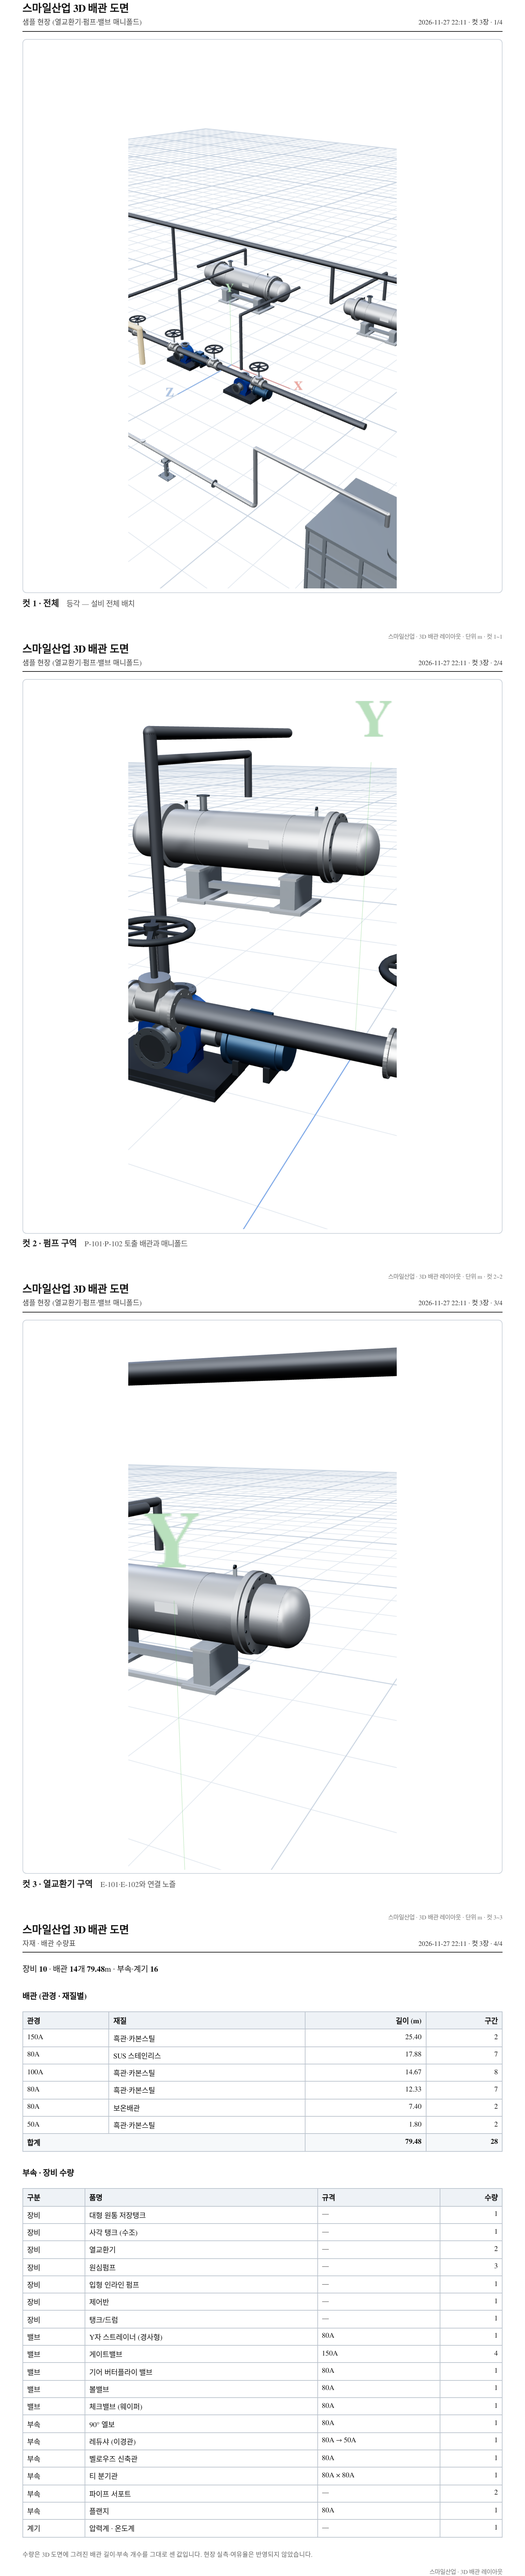
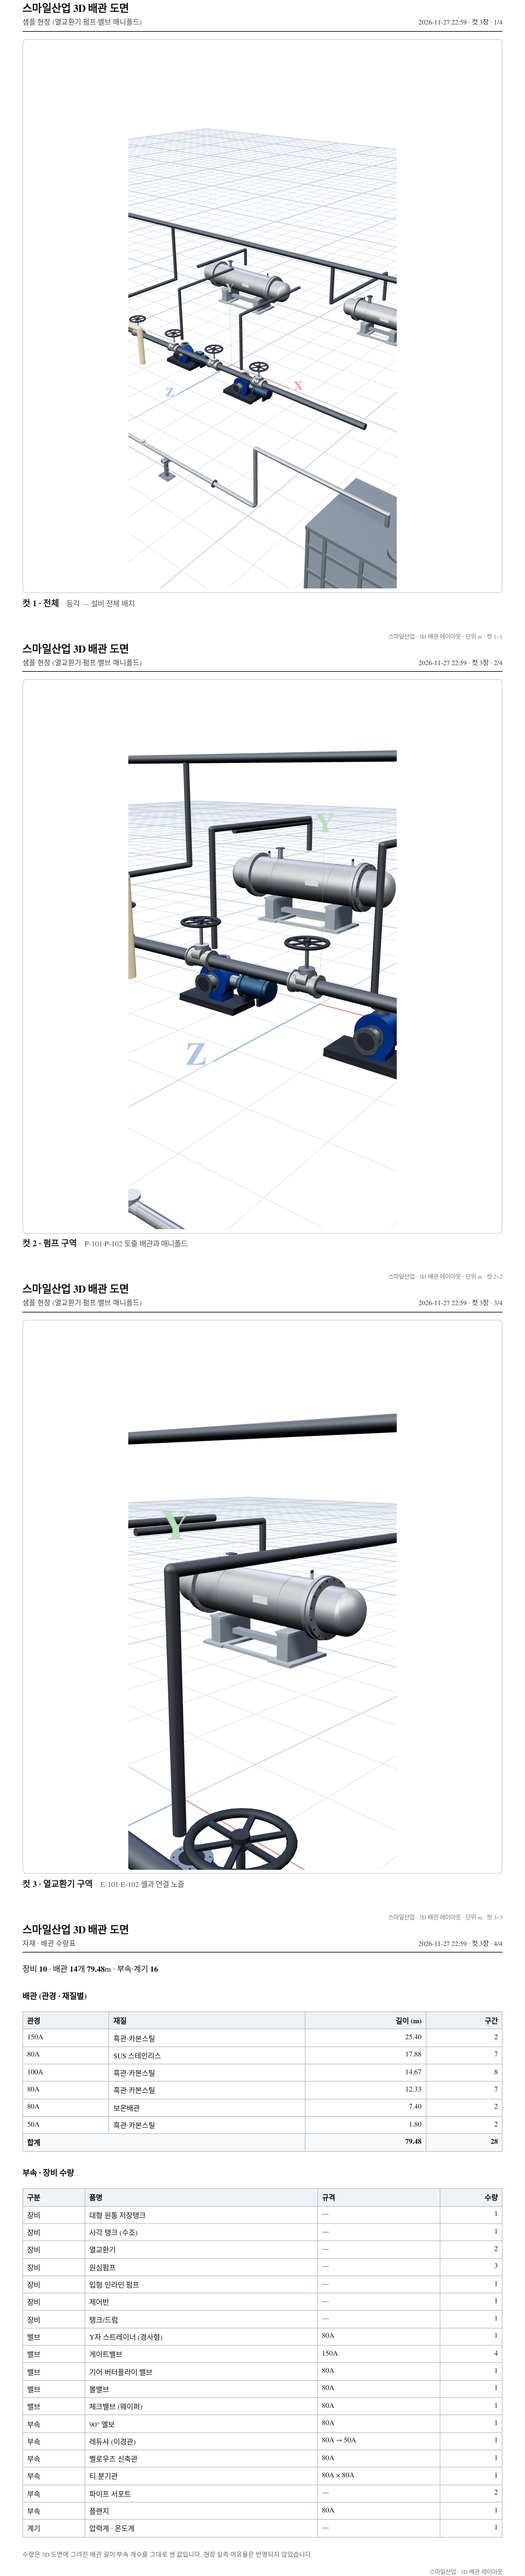
v81: 캔버스를 render 직후 곧바로 읽어 빈 컷 방지 — 2D 격자·합성은 읽은 뒤에, 빈 캔버스면 다시 그려 읽는다

Changed region(s): [[0.2469, 0.4995, 0.7714, 0.7492], [0.2469, 0.2497, 0.7714, 0.4995]]

diff --git a/js/main.js b/js/main.js
@@ -7259,9 +7259,21 @@ class App {
       // 댐핑이 남긴 미세한 카메라 이동을 반영하고, 애니메이션 루프와 같은 한 프레임을 그린다.
       this.controls.update();
       renderer.render(scene, this.camera);
+      // 그린 직후 **곧바로** 캔버스를 읽어 둔다(합성·격자 그리기보다 먼저).
+      // 흰 배경은 배경이 투명하므로, 아무것도 안 남았으면(드로잉 버퍼가 비워진 경우) 한 번 더 그려 읽는다.
+      const shot = document.createElement('canvas');
+      shot.width = gl.width;
+      shot.height = gl.height;
+      const sg = shot.getContext('2d');
+      for (let attempt = 0; attempt < 3; attempt += 1) {
+        if (attempt) { renderer.render(scene, this.camera); }
+        sg.clearRect(0, 0, shot.width, shot.height);
+        sg.drawImage(gl, 0, 0);
+        if (!o.white || this.canvasHasInk(sg, shot)) break;
+      }
       out = document.createElement('canvas');
-      out.width = gl.width;
-      out.height = gl.height;
+      out.width = shot.width;
+      out.height = shot.height;
       const g = out.getContext('2d');
       const k = gl.width / (gl.clientWidth || 1);
       if (o.white) {
@@ -7270,7 +7282,7 @@ class App {
         this.paintFloorGrid(g, k);      // 종이 위 1m 격자(가는 회색 선) — 3D보다 아래에 깔린다
       }
       g.imageSmoothingEnabled = true;
-      g.drawImage(gl, 0, 0);
+      g.drawImage(shot, 0, 0);
       labels = o.dims ? this.paintDimLabels(g, k, !!o.white) : 0;
     } finally {
       scene.background = prev.bg;
@@ -7286,6 +7298,22 @@ class App {
     const url = out.toDataURL('image/png');
     this.lastCapture = { url, w: out.width, h: out.height, white: !!o.white, dims: labels };
     return this.lastCapture;
+  }
+
+  // 담은 화면에 실제로 무언가 그려졌는지 — 투명 배경(흰 종이)에서 빈 캔버스를 걸러 낸다.
+  canvasHasInk(ctx, canvas) {
+    try {
+      const step = Math.max(1, Math.floor(Math.min(canvas.width, canvas.height) / 24));
+      const d = ctx.getImageData(0, 0, canvas.width, canvas.height).data;
+      for (let y = 0; y < canvas.height; y += step) {
+        for (let x = 0; x < canvas.width; x += step) {
+          if (d[(y * canvas.width + x) * 4 + 3] > 8) return true;
+        }
+      }
+      return false;
+    } catch (e) {
+      return true;   // 못 재면 그냥 쓴다
+    }
   }
 
   // 흰 종이 위 1m 격자 — 3D 바닥 판(어두운 텍스처) 대신 담은 그림 위에 가는 회색 선으로 긋는다.

diff --git a/tools/verify-v81.py b/tools/verify-v81.py
@@ -234,8 +234,8 @@ def run(browser, viewport, mobile, shots):
       const cap = __app.captureView({ white: true, dims: false });
       return await window.__P.pixels(cap.url);
     }''')
-    check(f'[{tag}] B. 샘플 장면 흰 배경 — 진한 형상 픽셀 2% 이상 (빈 종이가 아님)',
-          sample['dark'] >= 0.02, f"진한 {sample['dark']*100:.1f}% · 중간 {sample['mid']*100:.1f}% · 평균 {sample['mean']}")
+    check(f'[{tag}] B. 샘플 장면 흰 배경 — 진한 형상 픽셀 1.5% 이상 (빈 종이가 아님)',
+          sample['dark'] >= 0.015, f"진한 {sample['dark']*100:.1f}% · 중간 {sample['mid']*100:.1f}% · 평균 {sample['mean']}")
     check(f'[{tag}] B. 샘플 장면 흰 배경 — 여전히 종이가 밝다 (평균 200 이상)',
           sample['mean'] >= 200, f"평균 {sample['mean']}")
     check(f'[{tag}] B. 담은 PNG에 투명 픽셀이 없다 (종이가 실제 흰색)', sample['alphaLt250'] < 0.02,
@@ -493,8 +493,8 @@ def run(browser, viewport, mobile, shots):
             if (c) { c.title = title; c.memo = memo; }
           };
           shot('컷 1 · 전체', '등각 — 설비 전체 배치', [12, 9.5, 13], [0, 1.2, -1.6]);
-          shot('컷 2 · 펌프 구역', 'P-101·P-102 토출 배관과 매니폴드', [1.2, 2.6, 4.6], [-0.6, 1.0, 0.6]);
-          shot('컷 3 · 열교환기 구역', 'E-101·E-102와 연결 노즐', [1.6, 3.2, 2.4], [-1.5, 1.2, -4.2]);
+          shot('컷 2 · 펌프 구역', 'P-101·P-102 토출 배관과 매니폴드', [4.6, 3.4, 7.4], [-0.4, 0.9, 0.9]);
+          shot('컷 3 · 열교환기 구역', 'E-101·E-102 셸과 연결 노즐', [4.4, 3.2, 3.4], [-3.2, 0.9, -4.4]);
           a.renderCutList();
           await a.buildPrintSheet(a.cuts);
         }''')
